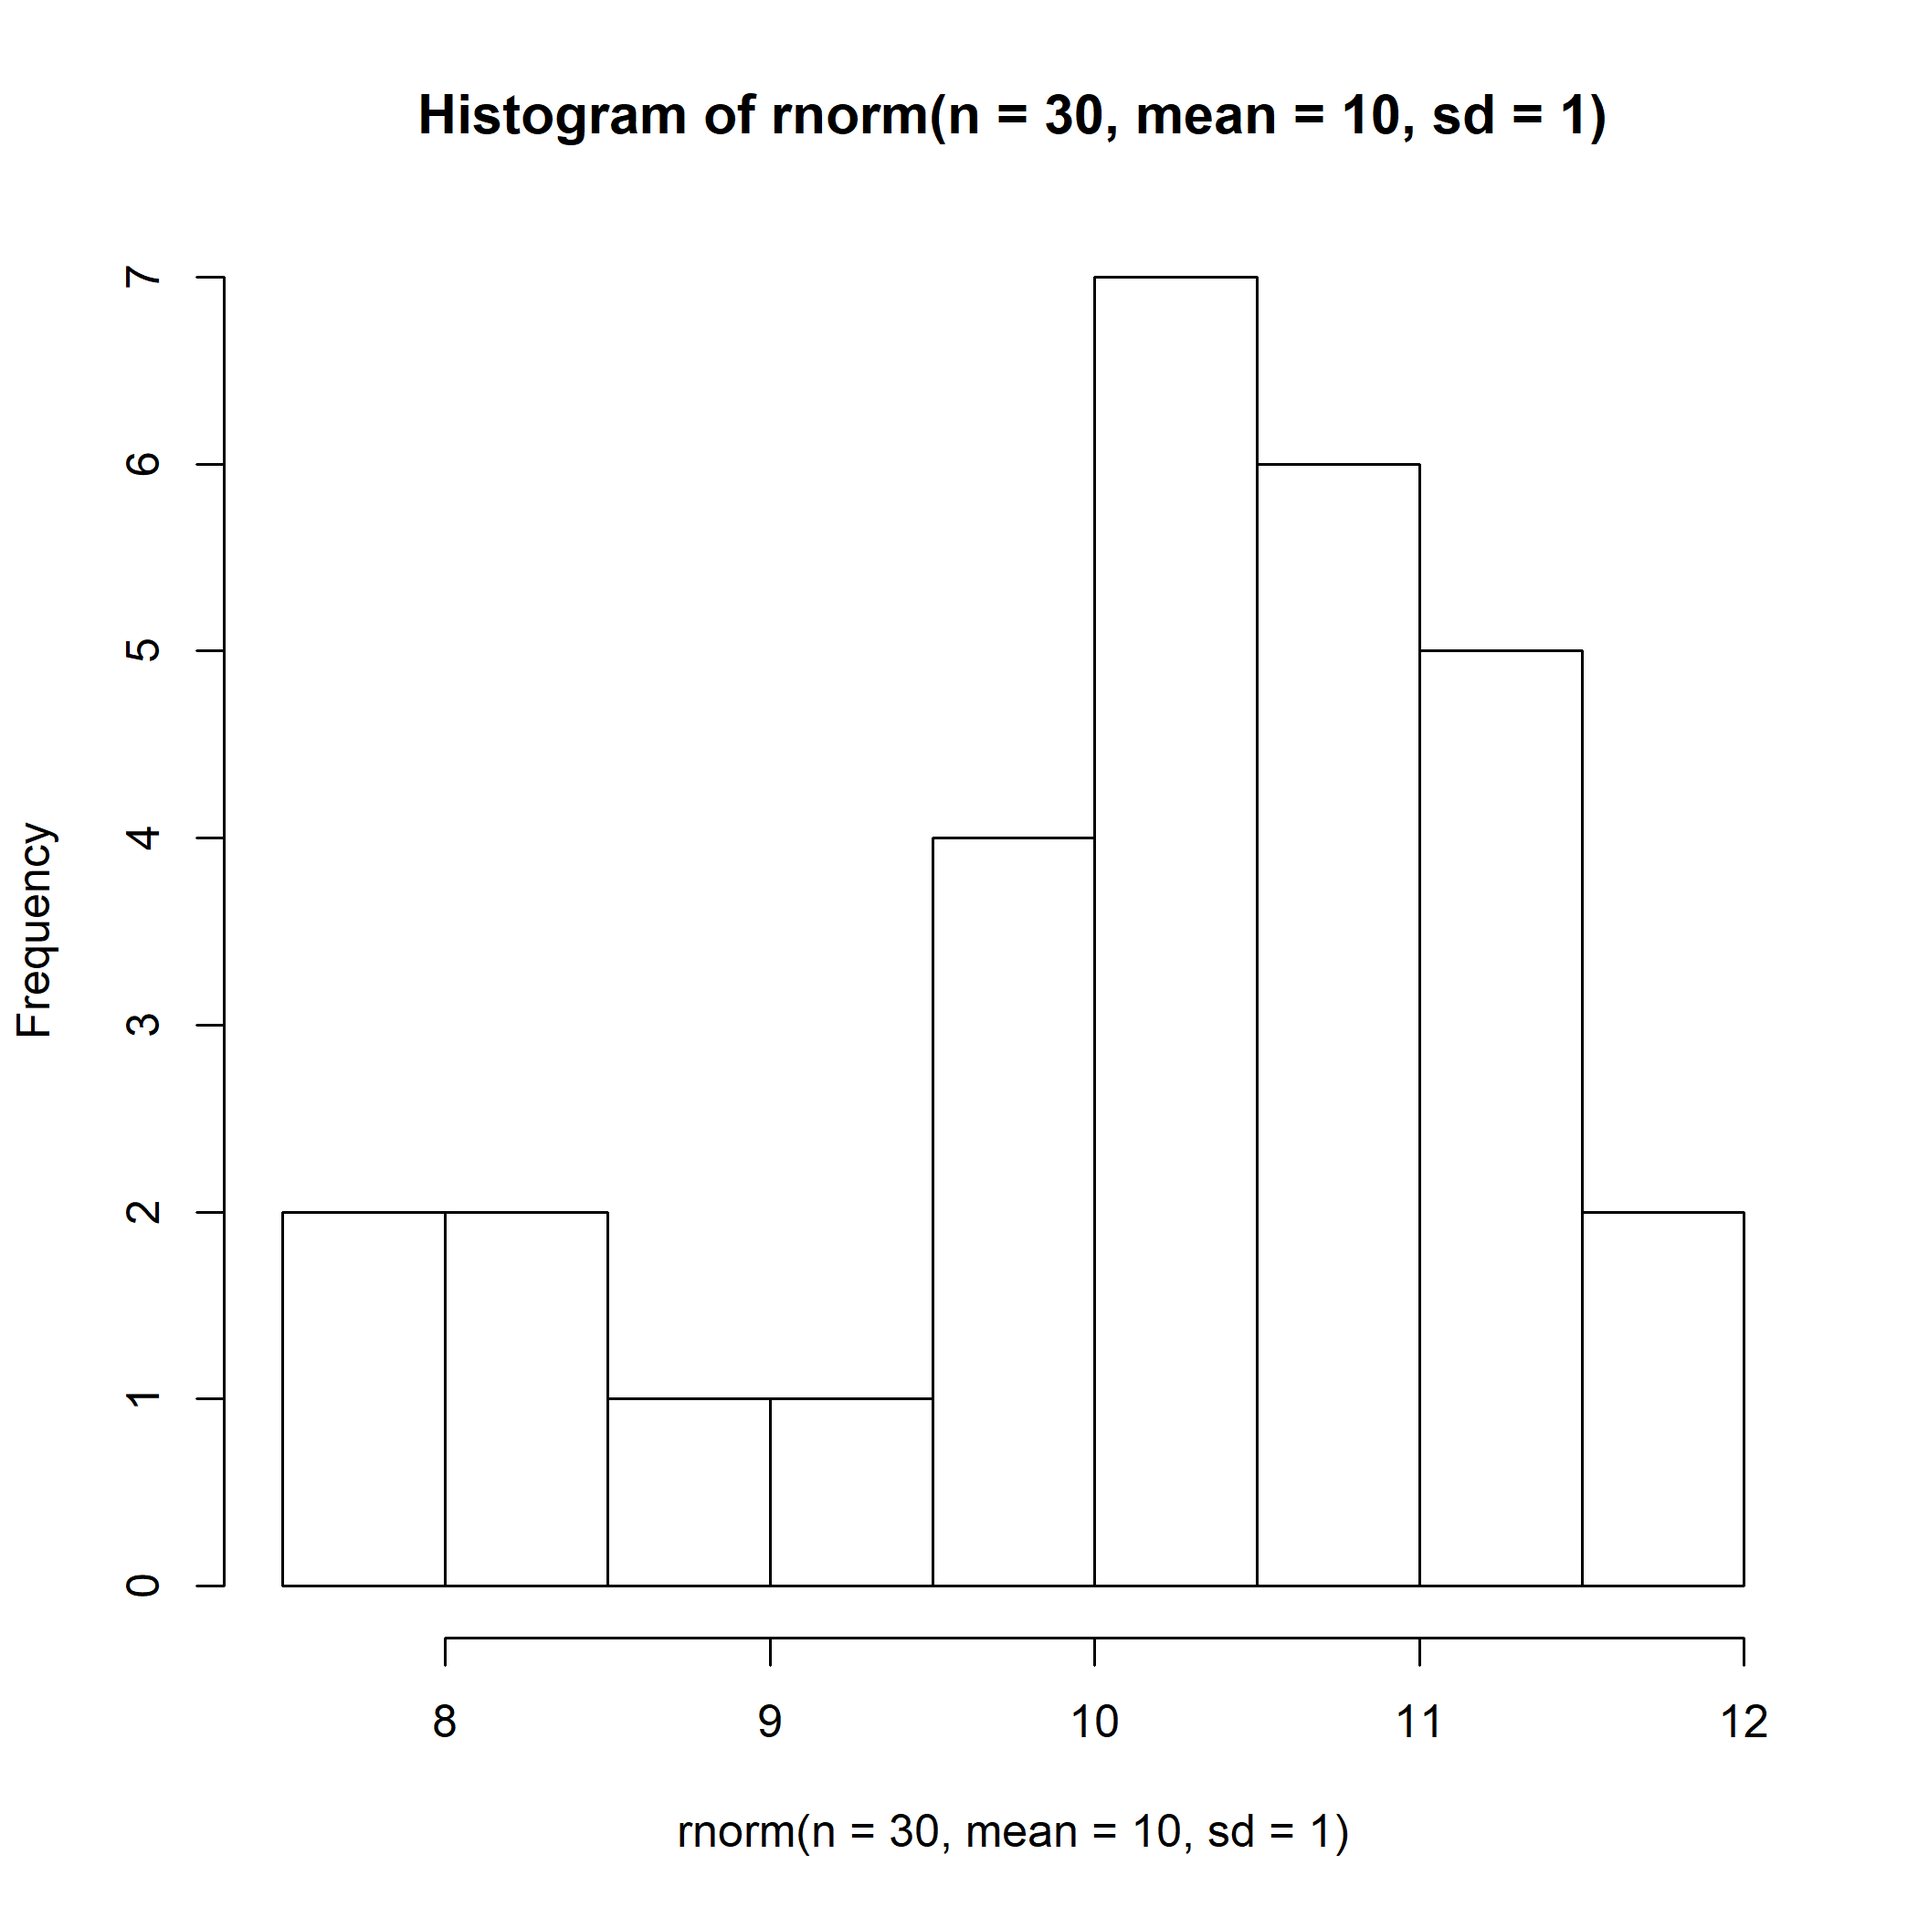
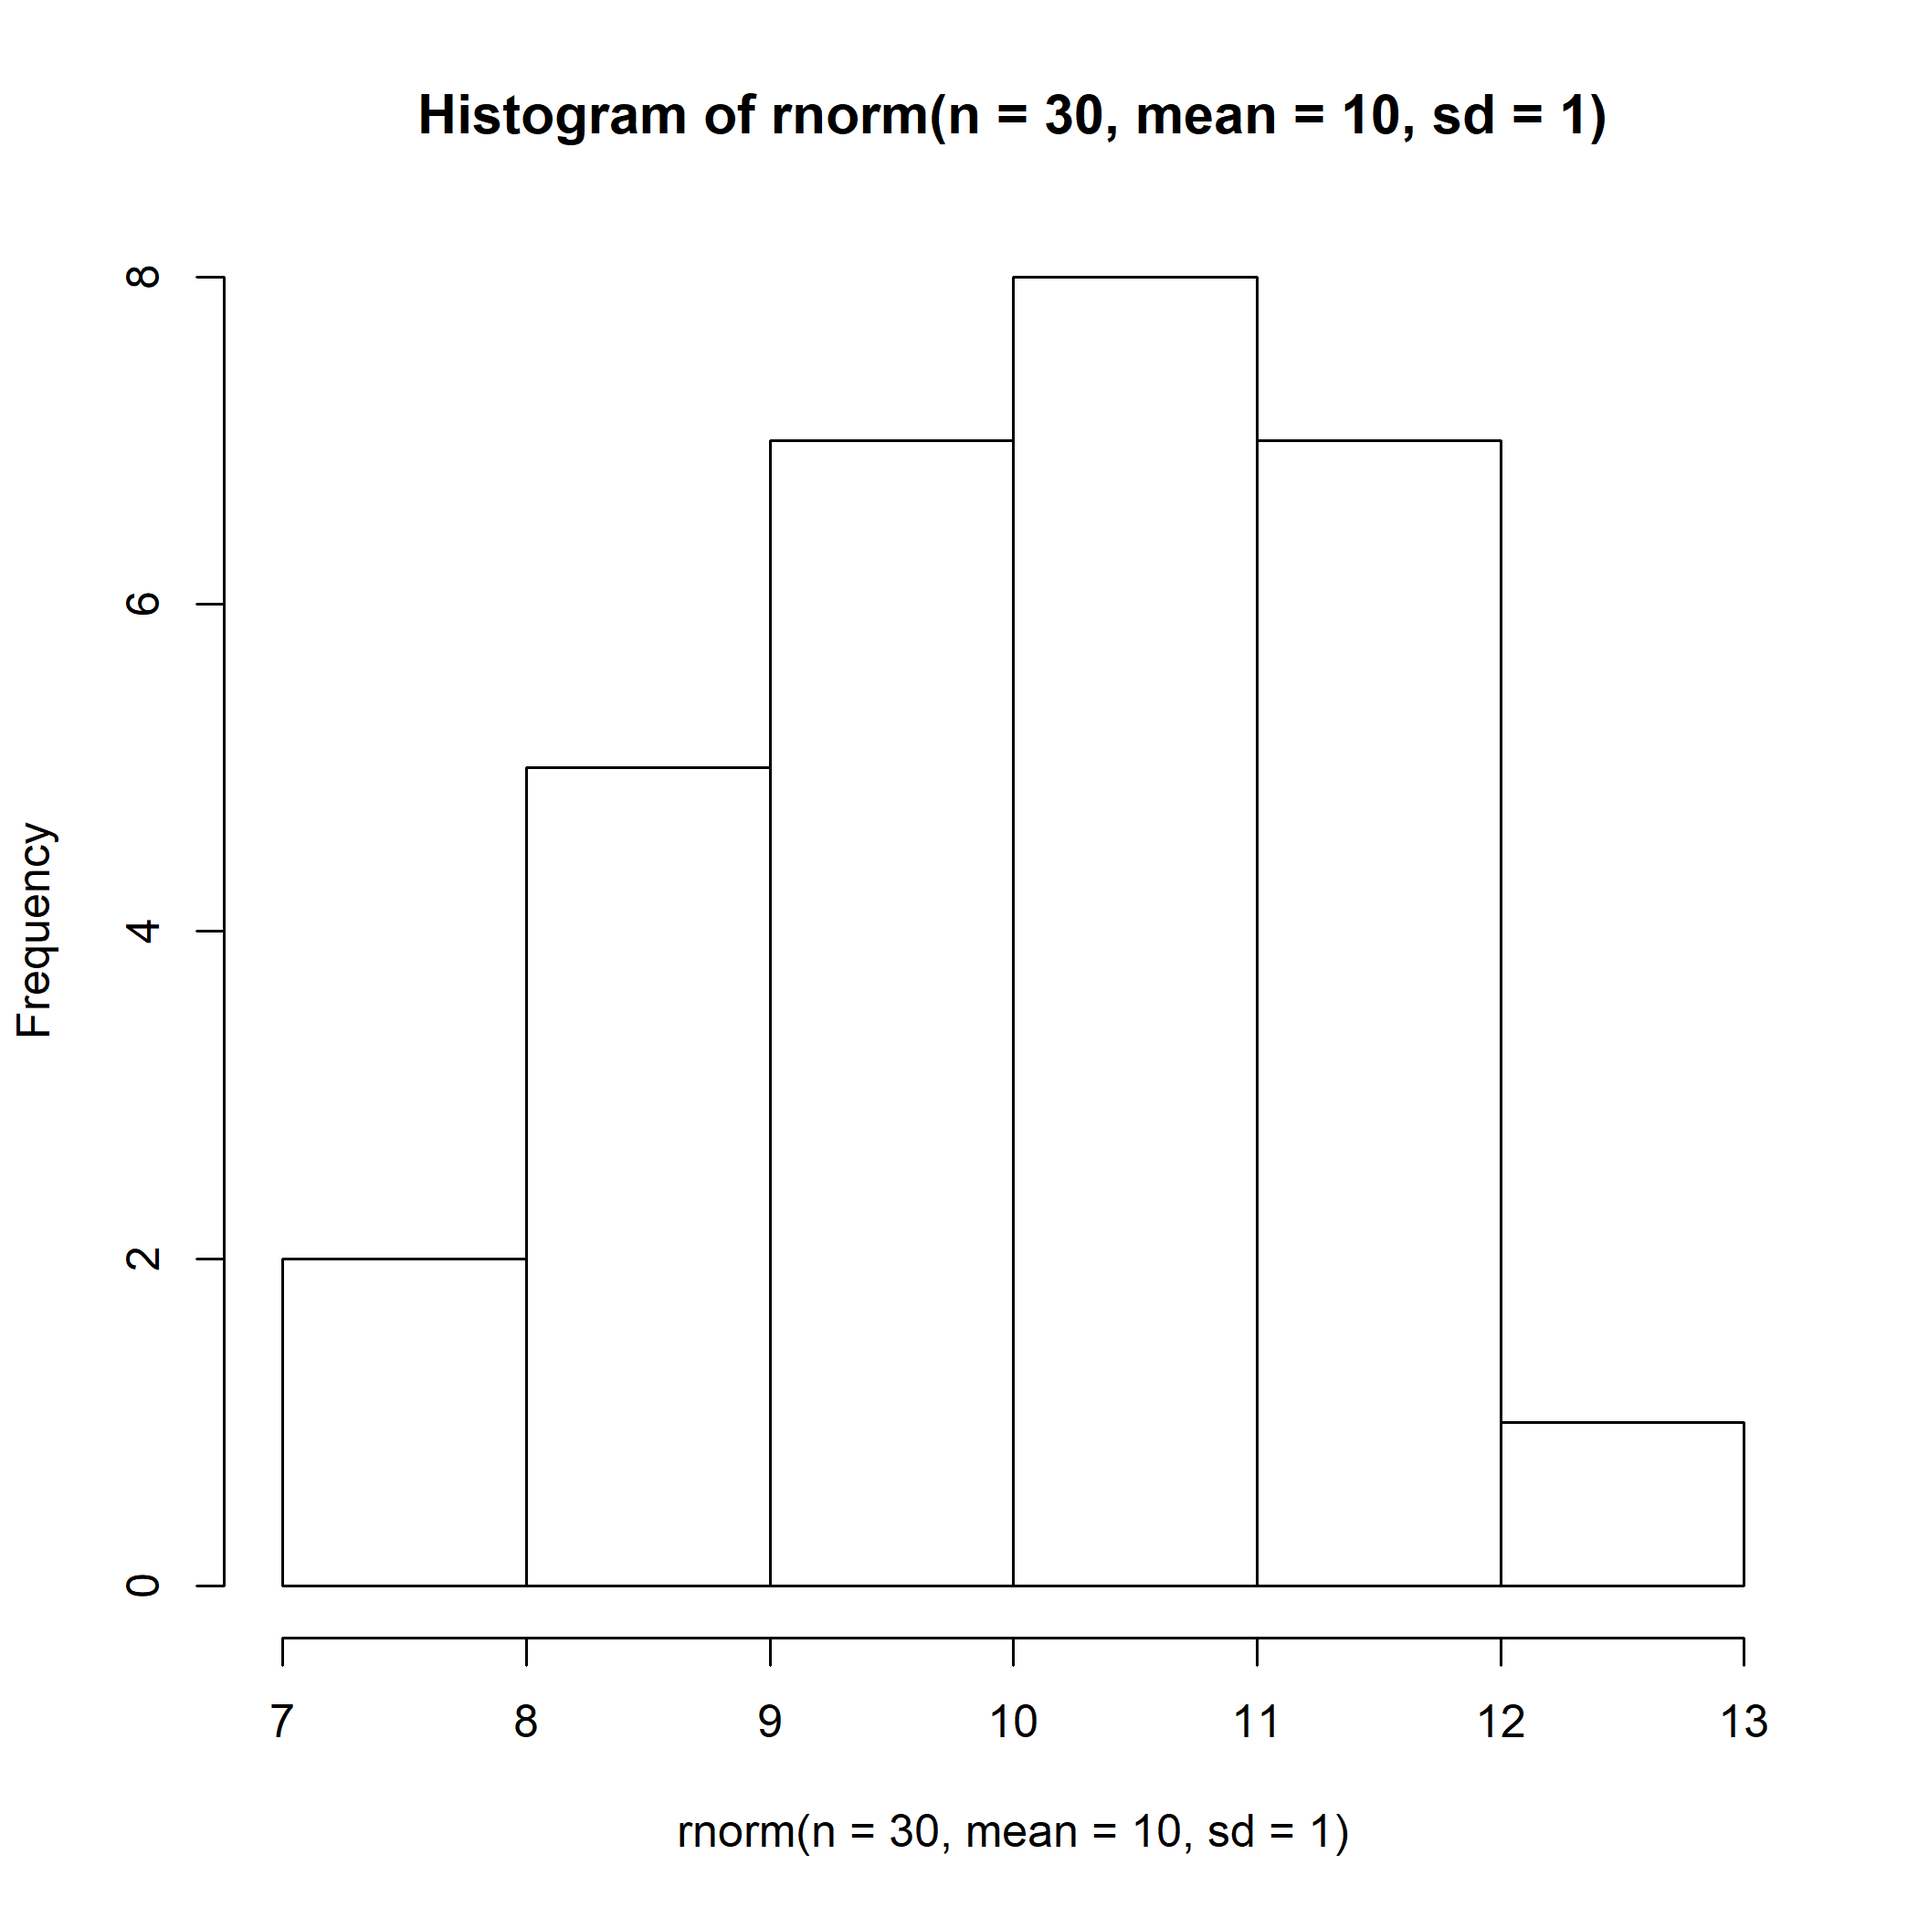
faute de frappe A3 C6

diff --git a/Atelier_3/index.html b/Atelier_3/index.html
@@ -400,11 +400,11 @@ for(etape in 1:5) {
 ```
 
 ```
-## [1] 0.2255829
-## [1] 0.8502986
-## [1] 0.3325476
-## [1] 0.4070122
-## [1] 0.08737616
+## [1] 0.6947643
+## [1] 0.5947663
+## [1] 0.06720681
+## [1] 0.7881372
+## [1] 0.4522596
 ```
 
 ---
@@ -594,7 +594,7 @@ for(i in 2:n_annees) {
 ---
 # La boucle while
 
-La boucle de type *while* répète une série d'intructions tant qu'une condition est respectée. C'est une version générale de la boucle *for*. Par exemple, on peut tirer deux pièces de monnaie jusqu'à ce que l'on obtienne la combinaison pile-pile. 
+La boucle de type *while* répète une série d'instructions tant qu'une condition est respectée. C'est une version générale de la boucle *for*. Par exemple, on peut tirer deux pièces de monnaie jusqu'à ce que l'on obtienne la combinaison pile-pile. 
 
 Rappel: (!=) signifie non-égale
 
@@ -611,9 +611,6 @@ while(combinaison != "pile-pile") {
 ```
 
 ```
-## [1] "face-pile"
-## [1] "pile-face"
-## [1] "pile-face"
 ## [1] "pile-pile"
 ```
 
@@ -654,7 +651,7 @@ mean(res)
 ```
 
 ```
-## [1] 6.0487
+## [1] 6.0264
 ```
 
 ---
@@ -907,17 +904,17 @@ cbind(X,res)
 
 
 ```
-##       X                   res         
-##  [1,] "0.833384401164949" "plus grand"
-##  [2,] "0.884744365699589" "plus grand"
-##  [3,] "0.186353984987363" "plus petit"
-##  [4,] "0.81349143316038"  "plus grand"
-##  [5,] "0.227492869831622" "plus petit"
-##  [6,] "0.820458913221955" "plus grand"
-##  [7,] "0.466347558191046" "plus grand"
-##  [8,] "0.830689009977505" "plus grand"
-##  [9,] "0.501798127312213" "plus grand"
-## [10,] "0.564645696431398" "plus grand"
+##       X                    res         
+##  [1,] "0.997961076442152"  "plus grand"
+##  [2,] "0.676418505143374"  "plus grand"
+##  [3,] "0.638597036944702"  "plus grand"
+##  [4,] "0.921245306031778"  "plus grand"
+##  [5,] "0.404123680666089"  "plus grand"
+##  [6,] "0.0841604312881827" "plus petit"
+##  [7,] "0.886528133647516"  "plus grand"
+##  [8,] "0.696782293729484"  "plus grand"
+##  [9,] "0.498327101580799"  "plus grand"
+## [10,] "0.405627921456471"  "plus grand"
 ```
 ]
 
@@ -971,17 +968,17 @@ cbind(X,res2)
 
 
 ```
-##       X                   res2 
-##  [1,] "0.833384401164949" "non"
-##  [2,] "0.884744365699589" "non"
-##  [3,] "0.186353984987363" "non"
-##  [4,] "0.81349143316038"  "non"
-##  [5,] "0.227492869831622" "oui"
-##  [6,] "0.820458913221955" "non"
-##  [7,] "0.466347558191046" "oui"
-##  [8,] "0.830689009977505" "non"
-##  [9,] "0.501798127312213" "oui"
-## [10,] "0.564645696431398" "oui"
+##       X                    res2 
+##  [1,] "0.997961076442152"  "non"
+##  [2,] "0.676418505143374"  "non"
+##  [3,] "0.638597036944702"  "non"
+##  [4,] "0.921245306031778"  "non"
+##  [5,] "0.404123680666089"  "oui"
+##  [6,] "0.0841604312881827" "non"
+##  [7,] "0.886528133647516"  "non"
+##  [8,] "0.696782293729484"  "non"
+##  [9,] "0.498327101580799"  "oui"
+## [10,] "0.405627921456471"  "oui"
 ```
 ]
 
@@ -1007,17 +1004,17 @@ cbind(X,res2)
     
 
 ```
-##       X                   res2 
-##  [1,] "0.833384401164949" "non"
-##  [2,] "0.884744365699589" "non"
-##  [3,] "0.186353984987363" "non"
-##  [4,] "0.81349143316038"  "non"
-##  [5,] "0.227492869831622" "oui"
-##  [6,] "0.820458913221955" "non"
-##  [7,] "0.466347558191046" "oui"
-##  [8,] "0.830689009977505" "non"
-##  [9,] "0.501798127312213" "oui"
-## [10,] "0.564645696431398" "oui"
+##       X                    res2 
+##  [1,] "0.997961076442152"  "non"
+##  [2,] "0.676418505143374"  "non"
+##  [3,] "0.638597036944702"  "non"
+##  [4,] "0.921245306031778"  "non"
+##  [5,] "0.404123680666089"  "oui"
+##  [6,] "0.0841604312881827" "non"
+##  [7,] "0.886528133647516"  "non"
+##  [8,] "0.696782293729484"  "non"
+##  [9,] "0.498327101580799"  "oui"
+## [10,] "0.405627921456471"  "oui"
 ```
 ]
 
@@ -1131,7 +1128,7 @@ tirage(3, cartes)
 ```
 
 ```
-## [1] "10 - coeur"   "as - carreau" "9 - coeur"
+## [1] "10 - pique"      "5 - coeur"       "valet - carreau"
 ```
 
 ---
@@ -1158,7 +1155,7 @@ res
 ```
 
 ```
-## [1] O K C D A J C
+## [1] N I H D W T U
 ## Levels: A B C D F G H I J K L M N O P Q R S T U V W X Y Z
 ```
 
@@ -1232,7 +1229,7 @@ rbinom(n = 10, size = 1, prob = 0.5)
 ```
 
 ```
-##  [1] 0 0 0 0 1 1 1 1 1 1
+##  [1] 1 0 1 1 0 0 0 0 1 0
 ```
 ]
 
@@ -1255,10 +1252,10 @@ rmultinom(n = 3, size = 1, prob = rep(1/6, 6))
 
 ```
 ##      [,1] [,2] [,3]
-## [1,]    1    1    0
-## [2,]    0    0    1
-## [3,]    0    0    0
-## [4,]    0    0    0
+## [1,]    0    0    1
+## [2,]    0    0    0
+## [3,]    0    1    0
+## [4,]    1    0    0
 ## [5,]    0    0    0
 ## [6,]    0    0    0
 ```
@@ -1760,7 +1757,7 @@ system.time(tri(x))
 
 ```
 ##    user  system elapsed 
-##    0.28    0.00    0.29
+##    0.28    0.00    0.28
 ```
 
 ---
@@ -1829,7 +1826,7 @@ system.time(f2(x))
 
 ```
 ##    user  system elapsed 
-##       0       0       0
+##    0.02    0.00    0.01
 ```
 ]
 
@@ -1867,11 +1864,11 @@ system.time(f1(X))
 
 ```
 ##    user  system elapsed 
-##    0.03    0.00    0.04 
+##    0.01    0.00    0.02 
 ##    user  system elapsed 
-##    0.11    0.00    0.11 
+##    0.16    0.01    0.18 
 ##    user  system elapsed 
-##    0.86    0.00    0.86
+##    1.44    0.00    1.48
 ```
 ]
 
